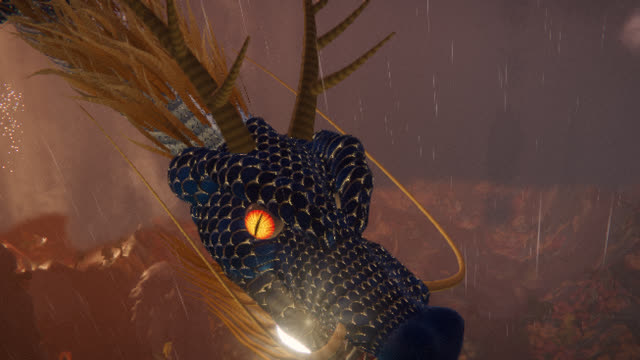
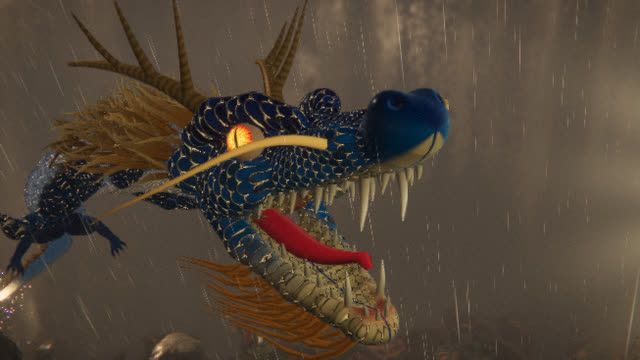
dragon-realm: the pearl is held in the jaws, leaves at the roar and leads the dragon; brighter transformation look
Claude-Session: https://claude.ai/code/session_01LWivNfXk7AE4cyDcX68vZs

diff --git a/docs/dragon-realm/demo/cheongryong/index.html b/docs/dragon-realm/demo/cheongryong/index.html
@@ -4325,7 +4325,7 @@ const Yong = {};
       grow: [smooth(B.SEIZE + 0.2, B.SEIZE + 2.6, t), smooth(B.SEIZE, B.SEIZE + 3.4, t), smooth(B.SEIZE + 1.0, B.SEIZE + 4.2, t)],
       lid: Math.max(1 - smooth(B.EYE, B.EYE + 0.7, t), blink),
       eyeGlow: lerp(0.7, 1.7, dragon) + 1.5 * pulse(t, B.EYE, B.EYE + 2.5, 0.5, 1.5),
-      jaw: 0.1 + 0.75 * pulse(t, B.BURST - 0.1, B.BURST + 1.6, 0.25, 0.7) + 0.5 * pulse(t, B.SEIZE - 0.7, B.SEIZE + 0.05, 0.4, 0.1) + 0.85 * pulse(t, B.ROAR - 0.1, B.ROAR + 2.2, 0.25, 0.6) + 0.35 * pulse(t, 62.4, 63.6, 0.3) + 0.12 * pulse(t, 40.5, 50, 1),
+      jaw: 0.1 + 0.75 * pulse(t, B.BURST - 0.1, B.BURST + 1.6, 0.25, 0.7) + 0.6 * pulse(t, B.SEIZE - 0.7, B.SEIZE + 0.05, 0.4, 0.1) + 0.3 * pulse(t, B.SEIZE, B.ROAR - 0.05, 0.15, 0.2) + 0.85 * pulse(t, B.ROAR - 0.1, B.ROAR + 2.2, 0.25, 0.6) + 0.35 * pulse(t, 62.4, 63.6, 0.3) + 0.12 * pulse(t, 40.5, 50, 1),
       wet: t < 57 ? (t < B.BURST ? 1 : 0.85) : lerp(0.6, 0.12, smooth(57, 66, t)) + 0.5 * pulse(t, 66, 69, 0.4, 1.5),
       glow: 2.2 * pulse(t, B.SEIZE, B.DAWN + 1.5, 0.3, 2.5) + 0.35 * dragon,
       wave: t < B.BURST ? 0.75 : 1, reach: pulse(t, B.SEIZE - 0.6, B.SEIZE + 0.4, 0.3, 0.6),
@@ -4342,12 +4342,19 @@ const Yong = {};
     // the yeouiju: it comes down through the torn cloud, waits, and after the seizing rides under the dragon's chin
     const pm = new THREE.Mesh(new THREE.SphereGeometry(1, 40, 24), DR.mat({ base: 'basic', color: '#000000', air: false, fBody: 'vec3 Vp = normalize(cameraPosition - vWPos); float f = pow(1.0 - max(dot(normalize(vONrm), Vp), 0.0), 1.5); drEmit = mix(vec3(9.0, 7.6, 4.6), vec3(4.0, 6.5, 9.0), f) * (0.8 + 0.2 * sin(uTime * 3.0 + vWPos.y));' }));
     scene.add(pm); Yong.pearlMesh = pm;
-    const tmp = [0, 0, 0];
+    // Where the pearl is.  It comes down through the tear and waits; the imugi takes it in its jaws (SEIZE) and holds it
+    // while it changes; with the roar it leaves the open mouth, and from then on it goes before the dragon — a few
+    // lengths of the head ahead on the dragon's own road, circling a little, the way the pearl leads the dragon in a 운룡도.
+    const tmp = [0, 0, 0], tmp2 = [0, 0, 0], lead = [0, 0, 0];
+    const ahead = (t, o) => { const s = C.sOf(t) + 14, p = C.rail.at(s, tmp), d = C.rail.dir(s, tmp2, 3), sx = d[2], sz = -d[0], sl = Math.hypot(sx, sz) || 1, a = t * 0.8;
+      o[0] = p[0] + (sx / sl) * Math.cos(a) * 2.2; o[1] = p[1] + 2.4 + Math.sin(a * 1.3) * 1.3; o[2] = p[2] + (sz / sl) * Math.cos(a) * 2.2; return o; };
     Yong.pearlAt = (t, o = [0, 0, 0]) => {
-      if (t < B.PEARL - 0.5) { o[0] = Yong.PEARL0[0]; o[1] = 900; o[2] = Yong.PEARL0[2]; o[3] = 0; return o; }
-      if (t < B.SEIZE) { const d = 1 - DR.ease.out3(sat((t - B.PEARL) / 5.5)); o[0] = Yong.PEARL0[0] + Math.sin(t * 0.7) * 1.2; o[1] = Yong.PEARL0[1] + d * 190 + Math.sin(t * 1.3) * 0.8; o[2] = Yong.PEARL0[2] + Math.cos(t * 0.6) * 1.2; o[3] = smooth(B.PEARL - 0.5, B.PEARL + 1.5, t); return o; }
-      const P = Yong.parts; P.point(0, -1.25, P.sn * 0.62, tmp); o[0] = tmp[0]; o[1] = tmp[1]; o[2] = tmp[2]; o[3] = 1; return o; };
-    DR.onFrame((t) => { const p = Yong.pearlAt(t, Yong._p || (Yong._p = [0, 0, 0, 0])); pm.position.set(p[0], p[1], p[2]); const s = (t < B.SEIZE ? 2.2 : 0.9) * p[3]; pm.scale.setScalar(Math.max(s, 1e-3)); pm.visible = p[3] > 0.01; }, 20);
+      if (t < B.PEARL - 0.5) { o[0] = Yong.PEARL0[0]; o[1] = 900; o[2] = Yong.PEARL0[2]; o[3] = 0; o[4] = 2.2; return o; }
+      if (t < B.SEIZE) { const d = 1 - DR.ease.out3(sat((t - B.PEARL) / 5.5)); o[0] = Yong.PEARL0[0] + Math.sin(t * 0.7) * 1.2; o[1] = Yong.PEARL0[1] + d * 190 + Math.sin(t * 1.3) * 0.8; o[2] = Yong.PEARL0[2] + Math.cos(t * 0.6) * 1.2; o[3] = smooth(B.PEARL - 0.5, B.PEARL + 1.5, t); o[4] = 2.2; return o; }
+      const P = Yong.parts, k = DR.ease.io3(smooth(B.ROAR - 0.1, B.ROAR + 1.7, t)); P.point(0, -0.47, P.sn * 0.80, o);     // between the front teeth
+      if (k > 0) { ahead(t, lead); o[0] = lerp(o[0], lead[0], k); o[1] = lerp(o[1], lead[1], k) + Math.sin(k * Math.PI) * 3; o[2] = lerp(o[2], lead[2], k); }
+      o[3] = 1; o[4] = lerp(0.62, 1.05, k); return o; };
+    DR.onFrame((t) => { const p = Yong.pearlAt(t, Yong._p || (Yong._p = [0, 0, 0, 0, 1])); pm.position.set(p[0], p[1], p[2]); pm.scale.setScalar(Math.max(p[4] * p[3], 1e-3)); pm.visible = p[3] > 0.01; }, 20);
     return C;
   };
 }
@@ -4376,7 +4383,7 @@ const Weather = {};
     DR.weather.glow = (t) => { const p = Yong.pearlAt(t); if (!p[3]) return null; return [p[0], p[1], p[2], p[3] * (t < B.SEIZE ? 1.6 : 0.9) * (1 + 0.12 * Math.sin(t * 5.1))]; };
     DR.camKick = (t) => 2.4 * pulse(t, B.BURST, B.BURST + 1.6, 0.05, 1.2) + 1.6 * pulse(t, B.ROAR, B.ROAR + 2.2, 0.15, 0.8) + 1.2 * (pulse(t, B.BOLT1, B.BOLT1 + 0.5, 0.03, 0.4) + pulse(t, B.BOLT2, B.BOLT2 + 0.5, 0.03, 0.4) + pulse(t, B.BOLT3, B.BOLT3 + 0.6, 0.03, 0.5)) + 1.3 * pulse(t, 62.7, 63.6, 0.2, 0.6) + 1.2 * pulse(t, 67.6, 68.4, 0.2, 0.5);
     // the pearl's halo and the shaft of light it comes down in
-    FX.glow({ color: '#fff0c0', at: (t) => { const p = Yong.pearlAt(t); if (!p[3]) return null; const s = seize(t); return [p[0], p[1], p[2], (t < B.SEIZE ? 40 : 7) + s * 12, p[3] * (t < B.SEIZE ? 0.8 : 0.4) + s * 0.5]; } });
+    FX.glow({ color: '#fff0c0', at: (t) => { const p = Yong.pearlAt(t); if (!p[3]) return null; const s = seize(t); return [p[0], p[1], p[2], (t < B.SEIZE ? 40 : 4 + 9 * smooth(B.ROAR, B.ROAR + 2, t)) + s * 12, p[3] * (t < B.SEIZE ? 0.8 : 0.4) + s * 0.5]; } });
     FX.beam({ color: '#ffe9c0', at: (t) => { const k = pulse(t, B.PEARL - 0.3, B.SEIZE + 1.5, 2.5, 2); if (k <= 0) return null; const p = Yong.pearlAt(t); return { a: [p[0] - 14, -2, p[2] + 30], b: [p[0] + 6, 560, p[2] - 10], width: 20, k: 0.07 * k }; } });
     FX.rain({ count: 9000 });
     // the lake: the long shape under the surface, the head coming up, the eruption, the skim
@@ -4665,8 +4672,8 @@ DR.score(function (K, B, o) {
     storm: { key: 'sun', sun: [150, 30], moon: MOON, keyCol: '#d9e2f0', keyK: 3.4, sunK: 0, moonK: 0, zen: '#141c26', hor: '#46535f', gnd: '#161b20', skyK: 1.7, amb: 1.25, stars: 0,
       air: 0.0007, mist: 0.004, mistH: 24, fogCol: '#aab6c8', cover: 0.97, shadowK: 0.92, cloud: [150, 540, 1 / 800, 0.075], cloudDark: 0.5, cloudSpeed: 3.2, haze: [0, 40, 0.006, 1 / 95], wind: [0.9, 0.3, 2.5], wet: 1, rain: 0.95, exposure: 1.95, bloom: 0.1, rays: 0, vignette: 0.42,
       grade: { lift: [0, 0.003, 0.008], gain: [0.92, 1.0, 1.08], sat: 0.9, contrast: 1.16 } },
-    gilt: { key: 'sun', sun: [150, 30], moon: MOON, keyCol: '#ffd9a0', keyK: 2.4, sunK: 0, moonK: 0, zen: '#141a22', hor: '#5a5248', gnd: '#1a1816', skyK: 1.3, amb: 1.1, stars: 0,
-      air: 0.0007, mist: 0.004, mistH: 24, fogCol: '#d8c8b0', cover: 0.95, shadowK: 0.9, cloud: [150, 540, 1 / 800, 0.075], cloudDark: 0.6, cloudSpeed: 3.0, haze: [0, 40, 0.006, 1 / 95], wind: [0.9, 0.3, 2.2], wet: 1, rain: 0.8, exposure: 1.2, bloom: 0.12, rays: 0, vignette: 0.42,
+    gilt: { key: 'sun', sun: [150, 30], moon: MOON, keyCol: '#ffd9a0', keyK: 3.4, sunK: 0, moonK: 0, zen: '#1a222c', hor: '#6a6258', gnd: '#24201c', skyK: 1.5, amb: 1.5, stars: 0,
+      air: 0.0007, mist: 0.004, mistH: 24, fogCol: '#d8c8b0', cover: 0.95, shadowK: 0.9, cloud: [150, 540, 1 / 800, 0.075], cloudDark: 0.6, cloudSpeed: 3.0, haze: [0, 40, 0.006, 1 / 95], wind: [0.9, 0.3, 2.2], wet: 1, rain: 0.8, exposure: 1.5, bloom: 0.12, rays: 0, vignette: 0.42,
       grade: { lift: [0.004, 0.002, 0.002], gain: [1.03, 1.0, 0.98], sat: 1.0, contrast: 1.14 } },
     turn: { key: 'sun', sun: [150, 12], moon: MOON, keyCol: '#ffc08a', keyK: 3.2, sunCol: '#ffc890', sunK: 1.4, moonK: 0.2, zen: '#1d3058', hor: '#8f9ab0', gnd: '#201e1e', warm: '#ff9048', skyK: 1, amb: 1.0, stars: 0,
       air: 0.0006, mist: 0.004, mistH: 22, fogCol: '#ffe2c4', cover: 0.7, shadowK: 0.85, cloud: [230, 600, 1 / 850, 0.06], cloudDark: 0.25, cloudSpeed: 2.2, haze: [0, 38, 0.010, 1 / 95], wind: [0.9, 0.3, 1.4], wet: 0.8, rain: 0.4, exposure: 1.25, bloom: 0.12, rays: 0.8, vignette: 0.34,

diff --git a/dragon-realm/examples/cheongryong/index.html b/dragon-realm/examples/cheongryong/index.html
@@ -4325,7 +4325,7 @@ const Yong = {};
       grow: [smooth(B.SEIZE + 0.2, B.SEIZE + 2.6, t), smooth(B.SEIZE, B.SEIZE + 3.4, t), smooth(B.SEIZE + 1.0, B.SEIZE + 4.2, t)],
       lid: Math.max(1 - smooth(B.EYE, B.EYE + 0.7, t), blink),
       eyeGlow: lerp(0.7, 1.7, dragon) + 1.5 * pulse(t, B.EYE, B.EYE + 2.5, 0.5, 1.5),
-      jaw: 0.1 + 0.75 * pulse(t, B.BURST - 0.1, B.BURST + 1.6, 0.25, 0.7) + 0.5 * pulse(t, B.SEIZE - 0.7, B.SEIZE + 0.05, 0.4, 0.1) + 0.85 * pulse(t, B.ROAR - 0.1, B.ROAR + 2.2, 0.25, 0.6) + 0.35 * pulse(t, 62.4, 63.6, 0.3) + 0.12 * pulse(t, 40.5, 50, 1),
+      jaw: 0.1 + 0.75 * pulse(t, B.BURST - 0.1, B.BURST + 1.6, 0.25, 0.7) + 0.6 * pulse(t, B.SEIZE - 0.7, B.SEIZE + 0.05, 0.4, 0.1) + 0.3 * pulse(t, B.SEIZE, B.ROAR - 0.05, 0.15, 0.2) + 0.85 * pulse(t, B.ROAR - 0.1, B.ROAR + 2.2, 0.25, 0.6) + 0.35 * pulse(t, 62.4, 63.6, 0.3) + 0.12 * pulse(t, 40.5, 50, 1),
       wet: t < 57 ? (t < B.BURST ? 1 : 0.85) : lerp(0.6, 0.12, smooth(57, 66, t)) + 0.5 * pulse(t, 66, 69, 0.4, 1.5),
       glow: 2.2 * pulse(t, B.SEIZE, B.DAWN + 1.5, 0.3, 2.5) + 0.35 * dragon,
       wave: t < B.BURST ? 0.75 : 1, reach: pulse(t, B.SEIZE - 0.6, B.SEIZE + 0.4, 0.3, 0.6),
@@ -4342,12 +4342,19 @@ const Yong = {};
     // the yeouiju: it comes down through the torn cloud, waits, and after the seizing rides under the dragon's chin
     const pm = new THREE.Mesh(new THREE.SphereGeometry(1, 40, 24), DR.mat({ base: 'basic', color: '#000000', air: false, fBody: 'vec3 Vp = normalize(cameraPosition - vWPos); float f = pow(1.0 - max(dot(normalize(vONrm), Vp), 0.0), 1.5); drEmit = mix(vec3(9.0, 7.6, 4.6), vec3(4.0, 6.5, 9.0), f) * (0.8 + 0.2 * sin(uTime * 3.0 + vWPos.y));' }));
     scene.add(pm); Yong.pearlMesh = pm;
-    const tmp = [0, 0, 0];
+    // Where the pearl is.  It comes down through the tear and waits; the imugi takes it in its jaws (SEIZE) and holds it
+    // while it changes; with the roar it leaves the open mouth, and from then on it goes before the dragon — a few
+    // lengths of the head ahead on the dragon's own road, circling a little, the way the pearl leads the dragon in a 운룡도.
+    const tmp = [0, 0, 0], tmp2 = [0, 0, 0], lead = [0, 0, 0];
+    const ahead = (t, o) => { const s = C.sOf(t) + 14, p = C.rail.at(s, tmp), d = C.rail.dir(s, tmp2, 3), sx = d[2], sz = -d[0], sl = Math.hypot(sx, sz) || 1, a = t * 0.8;
+      o[0] = p[0] + (sx / sl) * Math.cos(a) * 2.2; o[1] = p[1] + 2.4 + Math.sin(a * 1.3) * 1.3; o[2] = p[2] + (sz / sl) * Math.cos(a) * 2.2; return o; };
     Yong.pearlAt = (t, o = [0, 0, 0]) => {
-      if (t < B.PEARL - 0.5) { o[0] = Yong.PEARL0[0]; o[1] = 900; o[2] = Yong.PEARL0[2]; o[3] = 0; return o; }
-      if (t < B.SEIZE) { const d = 1 - DR.ease.out3(sat((t - B.PEARL) / 5.5)); o[0] = Yong.PEARL0[0] + Math.sin(t * 0.7) * 1.2; o[1] = Yong.PEARL0[1] + d * 190 + Math.sin(t * 1.3) * 0.8; o[2] = Yong.PEARL0[2] + Math.cos(t * 0.6) * 1.2; o[3] = smooth(B.PEARL - 0.5, B.PEARL + 1.5, t); return o; }
-      const P = Yong.parts; P.point(0, -1.25, P.sn * 0.62, tmp); o[0] = tmp[0]; o[1] = tmp[1]; o[2] = tmp[2]; o[3] = 1; return o; };
-    DR.onFrame((t) => { const p = Yong.pearlAt(t, Yong._p || (Yong._p = [0, 0, 0, 0])); pm.position.set(p[0], p[1], p[2]); const s = (t < B.SEIZE ? 2.2 : 0.9) * p[3]; pm.scale.setScalar(Math.max(s, 1e-3)); pm.visible = p[3] > 0.01; }, 20);
+      if (t < B.PEARL - 0.5) { o[0] = Yong.PEARL0[0]; o[1] = 900; o[2] = Yong.PEARL0[2]; o[3] = 0; o[4] = 2.2; return o; }
+      if (t < B.SEIZE) { const d = 1 - DR.ease.out3(sat((t - B.PEARL) / 5.5)); o[0] = Yong.PEARL0[0] + Math.sin(t * 0.7) * 1.2; o[1] = Yong.PEARL0[1] + d * 190 + Math.sin(t * 1.3) * 0.8; o[2] = Yong.PEARL0[2] + Math.cos(t * 0.6) * 1.2; o[3] = smooth(B.PEARL - 0.5, B.PEARL + 1.5, t); o[4] = 2.2; return o; }
+      const P = Yong.parts, k = DR.ease.io3(smooth(B.ROAR - 0.1, B.ROAR + 1.7, t)); P.point(0, -0.47, P.sn * 0.80, o);     // between the front teeth
+      if (k > 0) { ahead(t, lead); o[0] = lerp(o[0], lead[0], k); o[1] = lerp(o[1], lead[1], k) + Math.sin(k * Math.PI) * 3; o[2] = lerp(o[2], lead[2], k); }
+      o[3] = 1; o[4] = lerp(0.62, 1.05, k); return o; };
+    DR.onFrame((t) => { const p = Yong.pearlAt(t, Yong._p || (Yong._p = [0, 0, 0, 0, 1])); pm.position.set(p[0], p[1], p[2]); pm.scale.setScalar(Math.max(p[4] * p[3], 1e-3)); pm.visible = p[3] > 0.01; }, 20);
     return C;
   };
 }
@@ -4376,7 +4383,7 @@ const Weather = {};
     DR.weather.glow = (t) => { const p = Yong.pearlAt(t); if (!p[3]) return null; return [p[0], p[1], p[2], p[3] * (t < B.SEIZE ? 1.6 : 0.9) * (1 + 0.12 * Math.sin(t * 5.1))]; };
     DR.camKick = (t) => 2.4 * pulse(t, B.BURST, B.BURST + 1.6, 0.05, 1.2) + 1.6 * pulse(t, B.ROAR, B.ROAR + 2.2, 0.15, 0.8) + 1.2 * (pulse(t, B.BOLT1, B.BOLT1 + 0.5, 0.03, 0.4) + pulse(t, B.BOLT2, B.BOLT2 + 0.5, 0.03, 0.4) + pulse(t, B.BOLT3, B.BOLT3 + 0.6, 0.03, 0.5)) + 1.3 * pulse(t, 62.7, 63.6, 0.2, 0.6) + 1.2 * pulse(t, 67.6, 68.4, 0.2, 0.5);
     // the pearl's halo and the shaft of light it comes down in
-    FX.glow({ color: '#fff0c0', at: (t) => { const p = Yong.pearlAt(t); if (!p[3]) return null; const s = seize(t); return [p[0], p[1], p[2], (t < B.SEIZE ? 40 : 7) + s * 12, p[3] * (t < B.SEIZE ? 0.8 : 0.4) + s * 0.5]; } });
+    FX.glow({ color: '#fff0c0', at: (t) => { const p = Yong.pearlAt(t); if (!p[3]) return null; const s = seize(t); return [p[0], p[1], p[2], (t < B.SEIZE ? 40 : 4 + 9 * smooth(B.ROAR, B.ROAR + 2, t)) + s * 12, p[3] * (t < B.SEIZE ? 0.8 : 0.4) + s * 0.5]; } });
     FX.beam({ color: '#ffe9c0', at: (t) => { const k = pulse(t, B.PEARL - 0.3, B.SEIZE + 1.5, 2.5, 2); if (k <= 0) return null; const p = Yong.pearlAt(t); return { a: [p[0] - 14, -2, p[2] + 30], b: [p[0] + 6, 560, p[2] - 10], width: 20, k: 0.07 * k }; } });
     FX.rain({ count: 9000 });
     // the lake: the long shape under the surface, the head coming up, the eruption, the skim
@@ -4665,8 +4672,8 @@ DR.score(function (K, B, o) {
     storm: { key: 'sun', sun: [150, 30], moon: MOON, keyCol: '#d9e2f0', keyK: 3.4, sunK: 0, moonK: 0, zen: '#141c26', hor: '#46535f', gnd: '#161b20', skyK: 1.7, amb: 1.25, stars: 0,
       air: 0.0007, mist: 0.004, mistH: 24, fogCol: '#aab6c8', cover: 0.97, shadowK: 0.92, cloud: [150, 540, 1 / 800, 0.075], cloudDark: 0.5, cloudSpeed: 3.2, haze: [0, 40, 0.006, 1 / 95], wind: [0.9, 0.3, 2.5], wet: 1, rain: 0.95, exposure: 1.95, bloom: 0.1, rays: 0, vignette: 0.42,
       grade: { lift: [0, 0.003, 0.008], gain: [0.92, 1.0, 1.08], sat: 0.9, contrast: 1.16 } },
-    gilt: { key: 'sun', sun: [150, 30], moon: MOON, keyCol: '#ffd9a0', keyK: 2.4, sunK: 0, moonK: 0, zen: '#141a22', hor: '#5a5248', gnd: '#1a1816', skyK: 1.3, amb: 1.1, stars: 0,
-      air: 0.0007, mist: 0.004, mistH: 24, fogCol: '#d8c8b0', cover: 0.95, shadowK: 0.9, cloud: [150, 540, 1 / 800, 0.075], cloudDark: 0.6, cloudSpeed: 3.0, haze: [0, 40, 0.006, 1 / 95], wind: [0.9, 0.3, 2.2], wet: 1, rain: 0.8, exposure: 1.2, bloom: 0.12, rays: 0, vignette: 0.42,
+    gilt: { key: 'sun', sun: [150, 30], moon: MOON, keyCol: '#ffd9a0', keyK: 3.4, sunK: 0, moonK: 0, zen: '#1a222c', hor: '#6a6258', gnd: '#24201c', skyK: 1.5, amb: 1.5, stars: 0,
+      air: 0.0007, mist: 0.004, mistH: 24, fogCol: '#d8c8b0', cover: 0.95, shadowK: 0.9, cloud: [150, 540, 1 / 800, 0.075], cloudDark: 0.6, cloudSpeed: 3.0, haze: [0, 40, 0.006, 1 / 95], wind: [0.9, 0.3, 2.2], wet: 1, rain: 0.8, exposure: 1.5, bloom: 0.12, rays: 0, vignette: 0.42,
       grade: { lift: [0.004, 0.002, 0.002], gain: [1.03, 1.0, 0.98], sat: 1.0, contrast: 1.14 } },
     turn: { key: 'sun', sun: [150, 12], moon: MOON, keyCol: '#ffc08a', keyK: 3.2, sunCol: '#ffc890', sunK: 1.4, moonK: 0.2, zen: '#1d3058', hor: '#8f9ab0', gnd: '#201e1e', warm: '#ff9048', skyK: 1, amb: 1.0, stars: 0,
       air: 0.0006, mist: 0.004, mistH: 22, fogCol: '#ffe2c4', cover: 0.7, shadowK: 0.85, cloud: [230, 600, 1 / 850, 0.06], cloudDark: 0.25, cloudSpeed: 2.2, haze: [0, 38, 0.010, 1 / 95], wind: [0.9, 0.3, 1.4], wet: 0.8, rain: 0.4, exposure: 1.25, bloom: 0.12, rays: 0.8, vignette: 0.34,

diff --git a/dragon-realm/examples/cheongryong/src/40_dragon.js b/dragon-realm/examples/cheongryong/src/40_dragon.js
@@ -27,7 +27,7 @@ const Yong = {};
       grow: [smooth(B.SEIZE + 0.2, B.SEIZE + 2.6, t), smooth(B.SEIZE, B.SEIZE + 3.4, t), smooth(B.SEIZE + 1.0, B.SEIZE + 4.2, t)],
       lid: Math.max(1 - smooth(B.EYE, B.EYE + 0.7, t), blink),
       eyeGlow: lerp(0.7, 1.7, dragon) + 1.5 * pulse(t, B.EYE, B.EYE + 2.5, 0.5, 1.5),
-      jaw: 0.1 + 0.75 * pulse(t, B.BURST - 0.1, B.BURST + 1.6, 0.25, 0.7) + 0.5 * pulse(t, B.SEIZE - 0.7, B.SEIZE + 0.05, 0.4, 0.1) + 0.85 * pulse(t, B.ROAR - 0.1, B.ROAR + 2.2, 0.25, 0.6) + 0.35 * pulse(t, 62.4, 63.6, 0.3) + 0.12 * pulse(t, 40.5, 50, 1),
+      jaw: 0.1 + 0.75 * pulse(t, B.BURST - 0.1, B.BURST + 1.6, 0.25, 0.7) + 0.6 * pulse(t, B.SEIZE - 0.7, B.SEIZE + 0.05, 0.4, 0.1) + 0.3 * pulse(t, B.SEIZE, B.ROAR - 0.05, 0.15, 0.2) + 0.85 * pulse(t, B.ROAR - 0.1, B.ROAR + 2.2, 0.25, 0.6) + 0.35 * pulse(t, 62.4, 63.6, 0.3) + 0.12 * pulse(t, 40.5, 50, 1),
       wet: t < 57 ? (t < B.BURST ? 1 : 0.85) : lerp(0.6, 0.12, smooth(57, 66, t)) + 0.5 * pulse(t, 66, 69, 0.4, 1.5),
       glow: 2.2 * pulse(t, B.SEIZE, B.DAWN + 1.5, 0.3, 2.5) + 0.35 * dragon,
       wave: t < B.BURST ? 0.75 : 1, reach: pulse(t, B.SEIZE - 0.6, B.SEIZE + 0.4, 0.3, 0.6),
@@ -44,12 +44,19 @@ const Yong = {};
     // the yeouiju: it comes down through the torn cloud, waits, and after the seizing rides under the dragon's chin
     const pm = new THREE.Mesh(new THREE.SphereGeometry(1, 40, 24), DR.mat({ base: 'basic', color: '#000000', air: false, fBody: 'vec3 Vp = normalize(cameraPosition - vWPos); float f = pow(1.0 - max(dot(normalize(vONrm), Vp), 0.0), 1.5); drEmit = mix(vec3(9.0, 7.6, 4.6), vec3(4.0, 6.5, 9.0), f) * (0.8 + 0.2 * sin(uTime * 3.0 + vWPos.y));' }));
     scene.add(pm); Yong.pearlMesh = pm;
-    const tmp = [0, 0, 0];
+    // Where the pearl is.  It comes down through the tear and waits; the imugi takes it in its jaws (SEIZE) and holds it
+    // while it changes; with the roar it leaves the open mouth, and from then on it goes before the dragon — a few
+    // lengths of the head ahead on the dragon's own road, circling a little, the way the pearl leads the dragon in a 운룡도.
+    const tmp = [0, 0, 0], tmp2 = [0, 0, 0], lead = [0, 0, 0];
+    const ahead = (t, o) => { const s = C.sOf(t) + 14, p = C.rail.at(s, tmp), d = C.rail.dir(s, tmp2, 3), sx = d[2], sz = -d[0], sl = Math.hypot(sx, sz) || 1, a = t * 0.8;
+      o[0] = p[0] + (sx / sl) * Math.cos(a) * 2.2; o[1] = p[1] + 2.4 + Math.sin(a * 1.3) * 1.3; o[2] = p[2] + (sz / sl) * Math.cos(a) * 2.2; return o; };
     Yong.pearlAt = (t, o = [0, 0, 0]) => {
-      if (t < B.PEARL - 0.5) { o[0] = Yong.PEARL0[0]; o[1] = 900; o[2] = Yong.PEARL0[2]; o[3] = 0; return o; }
-      if (t < B.SEIZE) { const d = 1 - DR.ease.out3(sat((t - B.PEARL) / 5.5)); o[0] = Yong.PEARL0[0] + Math.sin(t * 0.7) * 1.2; o[1] = Yong.PEARL0[1] + d * 190 + Math.sin(t * 1.3) * 0.8; o[2] = Yong.PEARL0[2] + Math.cos(t * 0.6) * 1.2; o[3] = smooth(B.PEARL - 0.5, B.PEARL + 1.5, t); return o; }
-      const P = Yong.parts; P.point(0, -1.25, P.sn * 0.62, tmp); o[0] = tmp[0]; o[1] = tmp[1]; o[2] = tmp[2]; o[3] = 1; return o; };
-    DR.onFrame((t) => { const p = Yong.pearlAt(t, Yong._p || (Yong._p = [0, 0, 0, 0])); pm.position.set(p[0], p[1], p[2]); const s = (t < B.SEIZE ? 2.2 : 0.9) * p[3]; pm.scale.setScalar(Math.max(s, 1e-3)); pm.visible = p[3] > 0.01; }, 20);
+      if (t < B.PEARL - 0.5) { o[0] = Yong.PEARL0[0]; o[1] = 900; o[2] = Yong.PEARL0[2]; o[3] = 0; o[4] = 2.2; return o; }
+      if (t < B.SEIZE) { const d = 1 - DR.ease.out3(sat((t - B.PEARL) / 5.5)); o[0] = Yong.PEARL0[0] + Math.sin(t * 0.7) * 1.2; o[1] = Yong.PEARL0[1] + d * 190 + Math.sin(t * 1.3) * 0.8; o[2] = Yong.PEARL0[2] + Math.cos(t * 0.6) * 1.2; o[3] = smooth(B.PEARL - 0.5, B.PEARL + 1.5, t); o[4] = 2.2; return o; }
+      const P = Yong.parts, k = DR.ease.io3(smooth(B.ROAR - 0.1, B.ROAR + 1.7, t)); P.point(0, -0.47, P.sn * 0.80, o);     // between the front teeth
+      if (k > 0) { ahead(t, lead); o[0] = lerp(o[0], lead[0], k); o[1] = lerp(o[1], lead[1], k) + Math.sin(k * Math.PI) * 3; o[2] = lerp(o[2], lead[2], k); }
+      o[3] = 1; o[4] = lerp(0.62, 1.05, k); return o; };
+    DR.onFrame((t) => { const p = Yong.pearlAt(t, Yong._p || (Yong._p = [0, 0, 0, 0, 1])); pm.position.set(p[0], p[1], p[2]); pm.scale.setScalar(Math.max(p[4] * p[3], 1e-3)); pm.visible = p[3] > 0.01; }, 20);
     return C;
   };
 }

diff --git a/dragon-realm/examples/cheongryong/src/90_film.js b/dragon-realm/examples/cheongryong/src/90_film.js
@@ -12,8 +12,8 @@
     storm: { key: 'sun', sun: [150, 30], moon: MOON, keyCol: '#d9e2f0', keyK: 3.4, sunK: 0, moonK: 0, zen: '#141c26', hor: '#46535f', gnd: '#161b20', skyK: 1.7, amb: 1.25, stars: 0,
       air: 0.0007, mist: 0.004, mistH: 24, fogCol: '#aab6c8', cover: 0.97, shadowK: 0.92, cloud: [150, 540, 1 / 800, 0.075], cloudDark: 0.5, cloudSpeed: 3.2, haze: [0, 40, 0.006, 1 / 95], wind: [0.9, 0.3, 2.5], wet: 1, rain: 0.95, exposure: 1.95, bloom: 0.1, rays: 0, vignette: 0.42,
       grade: { lift: [0, 0.003, 0.008], gain: [0.92, 1.0, 1.08], sat: 0.9, contrast: 1.16 } },
-    gilt: { key: 'sun', sun: [150, 30], moon: MOON, keyCol: '#ffd9a0', keyK: 2.4, sunK: 0, moonK: 0, zen: '#141a22', hor: '#5a5248', gnd: '#1a1816', skyK: 1.3, amb: 1.1, stars: 0,
-      air: 0.0007, mist: 0.004, mistH: 24, fogCol: '#d8c8b0', cover: 0.95, shadowK: 0.9, cloud: [150, 540, 1 / 800, 0.075], cloudDark: 0.6, cloudSpeed: 3.0, haze: [0, 40, 0.006, 1 / 95], wind: [0.9, 0.3, 2.2], wet: 1, rain: 0.8, exposure: 1.2, bloom: 0.12, rays: 0, vignette: 0.42,
+    gilt: { key: 'sun', sun: [150, 30], moon: MOON, keyCol: '#ffd9a0', keyK: 3.4, sunK: 0, moonK: 0, zen: '#1a222c', hor: '#6a6258', gnd: '#24201c', skyK: 1.5, amb: 1.5, stars: 0,
+      air: 0.0007, mist: 0.004, mistH: 24, fogCol: '#d8c8b0', cover: 0.95, shadowK: 0.9, cloud: [150, 540, 1 / 800, 0.075], cloudDark: 0.6, cloudSpeed: 3.0, haze: [0, 40, 0.006, 1 / 95], wind: [0.9, 0.3, 2.2], wet: 1, rain: 0.8, exposure: 1.5, bloom: 0.12, rays: 0, vignette: 0.42,
       grade: { lift: [0.004, 0.002, 0.002], gain: [1.03, 1.0, 0.98], sat: 1.0, contrast: 1.14 } },
     turn: { key: 'sun', sun: [150, 12], moon: MOON, keyCol: '#ffc08a', keyK: 3.2, sunCol: '#ffc890', sunK: 1.4, moonK: 0.2, zen: '#1d3058', hor: '#8f9ab0', gnd: '#201e1e', warm: '#ff9048', skyK: 1, amb: 1.0, stars: 0,
       air: 0.0006, mist: 0.004, mistH: 22, fogCol: '#ffe2c4', cover: 0.7, shadowK: 0.85, cloud: [230, 600, 1 / 850, 0.06], cloudDark: 0.25, cloudSpeed: 2.2, haze: [0, 38, 0.010, 1 / 95], wind: [0.9, 0.3, 1.4], wet: 0.8, rain: 0.4, exposure: 1.25, bloom: 0.12, rays: 0.8, vignette: 0.34,

diff --git a/dragon-realm/examples/cheongryong/src/50_weather.js b/dragon-realm/examples/cheongryong/src/50_weather.js
@@ -20,7 +20,7 @@ const Weather = {};
     DR.weather.glow = (t) => { const p = Yong.pearlAt(t); if (!p[3]) return null; return [p[0], p[1], p[2], p[3] * (t < B.SEIZE ? 1.6 : 0.9) * (1 + 0.12 * Math.sin(t * 5.1))]; };
     DR.camKick = (t) => 2.4 * pulse(t, B.BURST, B.BURST + 1.6, 0.05, 1.2) + 1.6 * pulse(t, B.ROAR, B.ROAR + 2.2, 0.15, 0.8) + 1.2 * (pulse(t, B.BOLT1, B.BOLT1 + 0.5, 0.03, 0.4) + pulse(t, B.BOLT2, B.BOLT2 + 0.5, 0.03, 0.4) + pulse(t, B.BOLT3, B.BOLT3 + 0.6, 0.03, 0.5)) + 1.3 * pulse(t, 62.7, 63.6, 0.2, 0.6) + 1.2 * pulse(t, 67.6, 68.4, 0.2, 0.5);
     // the pearl's halo and the shaft of light it comes down in
-    FX.glow({ color: '#fff0c0', at: (t) => { const p = Yong.pearlAt(t); if (!p[3]) return null; const s = seize(t); return [p[0], p[1], p[2], (t < B.SEIZE ? 40 : 7) + s * 12, p[3] * (t < B.SEIZE ? 0.8 : 0.4) + s * 0.5]; } });
+    FX.glow({ color: '#fff0c0', at: (t) => { const p = Yong.pearlAt(t); if (!p[3]) return null; const s = seize(t); return [p[0], p[1], p[2], (t < B.SEIZE ? 40 : 4 + 9 * smooth(B.ROAR, B.ROAR + 2, t)) + s * 12, p[3] * (t < B.SEIZE ? 0.8 : 0.4) + s * 0.5]; } });
     FX.beam({ color: '#ffe9c0', at: (t) => { const k = pulse(t, B.PEARL - 0.3, B.SEIZE + 1.5, 2.5, 2); if (k <= 0) return null; const p = Yong.pearlAt(t); return { a: [p[0] - 14, -2, p[2] + 30], b: [p[0] + 6, 560, p[2] - 10], width: 20, k: 0.07 * k }; } });
     FX.rain({ count: 9000 });
     // the lake: the long shape under the surface, the head coming up, the eruption, the skim
